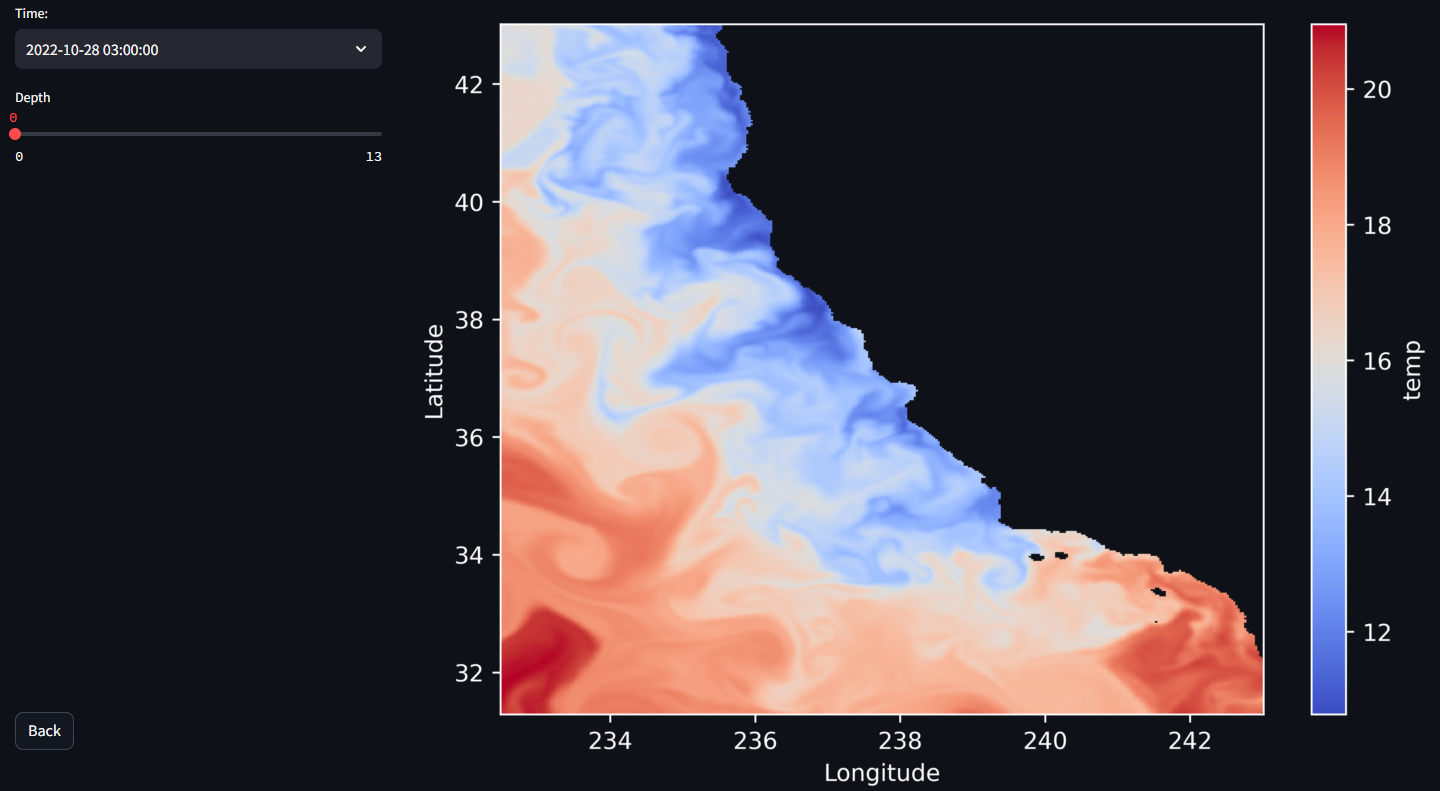
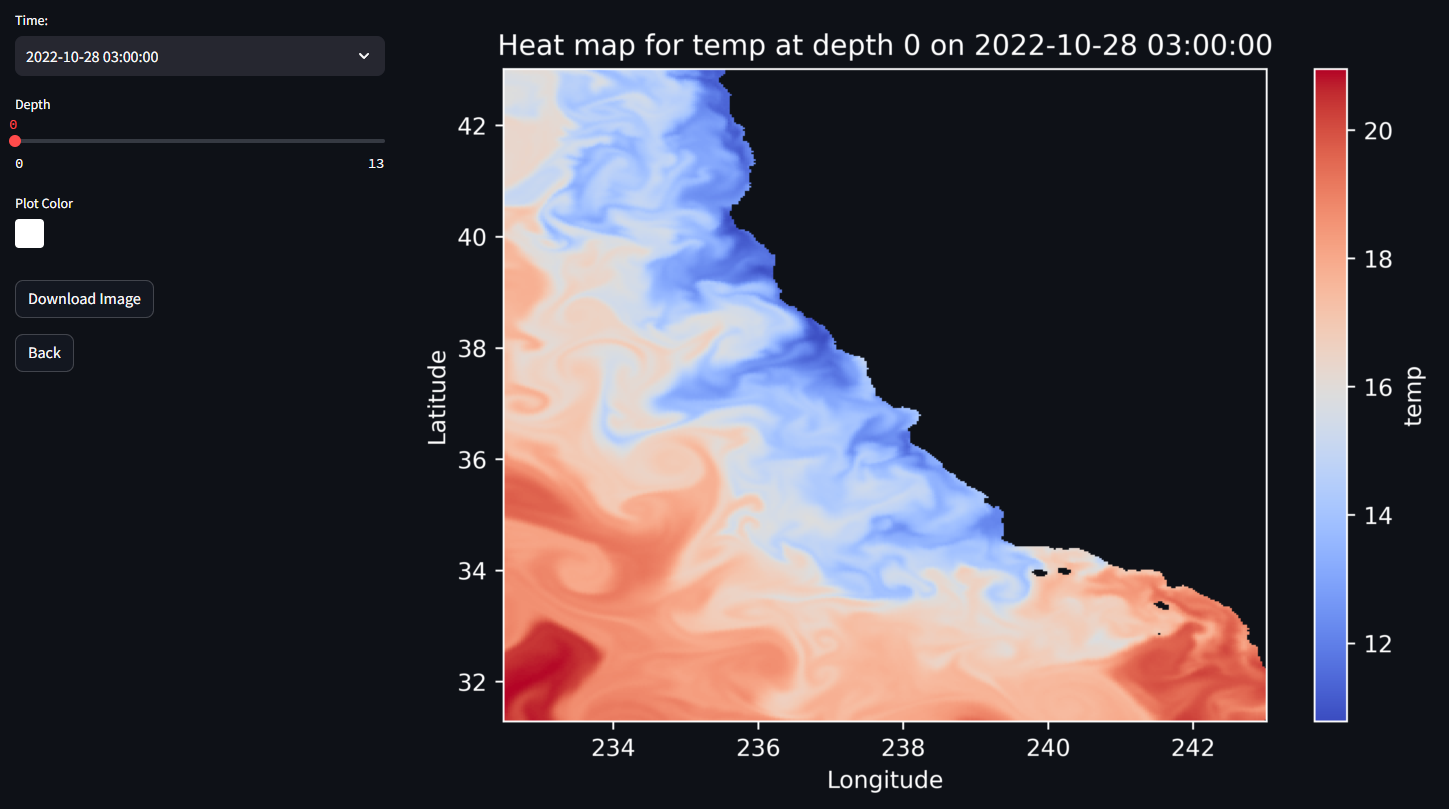
Demo changes
Created config.toml file to set the default to dark mode

Implemented additional features to the dataset visualization page
-can now change the colors of the plot for the heat map and quiver plot
-can download the generated plots
adjusted the back button location

added some text under the navigation section in the home page

fixed the code for generating pdf files from user feedback in both feedback_page.py and dropbox_utils.py

Updated how-to-use images with the new features added in the dataset visualization page

diff --git a/datasetvisualization_page.py b/datasetvisualization_page.py
@@ -232,10 +232,9 @@ def dataset_visualization_page():
                                                                      st.session_state['all_datetime_strings'])
             selected_depth = depth_slider(st.session_state['depth_levels'])
 
-            # I used this markdown to fill up empty space so the back button would be on the bottom
-            st.markdown("<br><br><br><br><br><br><br><br><br><br><br><br><br><br><br><br><br><br><br><br>",
-                        unsafe_allow_html=True)
-            back_button()
+            color = st.color_picker('Plot Color', '#FFFFFF')
+
+            st.write(" ")
 
         # Gets the files and makes sure they exist
         current_files = st.session_state['files_to_process']
@@ -252,15 +251,15 @@ def dataset_visualization_page():
                 # If Heat Map is selected and a variable is chosen, create a heatmap with that variable
                 if st.session_state.selected_visualization == "Heat Map" and 'selected_variable' in st.session_state:
                     with right_column:
-                        heatmap(st.session_state['variables_not_dimensions'], file_bytes, selected_datetime_str,
-                                selected_depth, st.session_state.selected_variable)
+                        heatmap(file_bytes, selected_datetime_str, selected_depth, st.session_state.selected_variable,
+                                color, left_column)
 
                 # If Quiver Plot is selected and a U and V variable is chosen, create a Quiver Plot with them
                 elif st.session_state.selected_visualization == "Quiver Plot" and 'selected_xvelocity' in st.session_state and 'selected_yvelocity' in st.session_state:
                     with right_column:
-                        quiverplot(st.session_state['variables_not_dimensions'], file_bytes, selected_datetime_str,
-                                   selected_depth, st.session_state.selected_xvelocity,
-                                   st.session_state.selected_yvelocity)
+                        quiverplot(file_bytes, selected_datetime_str, selected_depth,
+                                   st.session_state.selected_xvelocity, st.session_state.selected_yvelocity,
+                                   color, left_column)
             else:
                 st.write("No file content available")
 
@@ -500,7 +499,7 @@ def parse_datetime(datetime_str):
 
 
 # Creates a heat map with the variable selected for each latitude, longitude, selected time, and selected depth.
-def heatmap(variables_not_dimensions, file_bytes, datetime_str, depth, variable):
+def heatmap(file_bytes, datetime_str, depth, selected_variable, color, left_column):
     # Load the NetCDF file from bytes
     nc_file = nc.Dataset('in-memory', memory=file_bytes)
 
@@ -514,7 +513,7 @@ def heatmap(variables_not_dimensions, file_bytes, datetime_str, depth, variable)
         selected_time_index = np.where(nc.num2date(time_var[:], units=time_units) == selected_datetime)[0][0]
 
         # Access the data for the selected variable
-        data = nc_file.variables[variable]
+        data = nc_file.variables[selected_variable]
 
         # Assuming the data structure is [time, depth, lat, lon]
         selected_data = data[selected_time_index, depth, :, :]
@@ -528,11 +527,12 @@ def heatmap(variables_not_dimensions, file_bytes, datetime_str, depth, variable)
         c = ax.pcolormesh(lon, lat, selected_data, cmap='coolwarm')
 
         # Adjust color
-        color = "white"
+        #color = "black"
 
         # Set axis labels with specified color
         ax.set_xlabel('Longitude', color=color)
         ax.set_ylabel('Latitude', color=color)
+        ax.set_title(f'Heat map for {selected_variable} at depth {depth} on {datetime_str}', color=color)
 
         # Set tick labels and ticks color
         ax.tick_params(colors=color, which='both')  # 'both' applies changes to both major and minor ticks
@@ -542,8 +542,8 @@ def heatmap(variables_not_dimensions, file_bytes, datetime_str, depth, variable)
             spine.set_color(color)
 
         # Create colorbar with specified label color
-        colorbar = fig.colorbar(c, ax=ax, label=variable)
-        colorbar.set_label(variable, color=color)
+        colorbar = fig.colorbar(c, ax=ax, label=selected_variable)
+        colorbar.set_label(selected_variable, color=color)
 
         # Set colorbar tick color and tick labels to specified color
         colorbar.ax.yaxis.set_tick_params(color=color)  # This sets the tick color
@@ -551,12 +551,19 @@ def heatmap(variables_not_dimensions, file_bytes, datetime_str, depth, variable)
 
         fig.tight_layout(pad=1.0)
 
-        # Enhance the picture quality by increasing the DPI (this may lead to longer load times)
-        dpi = 500  # Adjust DPI to your needs for higher resolution
-
         buf = BytesIO()
-        fig.savefig(buf, format="png", dpi=dpi, transparent=True)
-        st.image(buf, width=1080)
+        fig.savefig(buf, format="png", dpi=500, transparent=True)
+        image = st.image(buf, width=1080)
+
+        with left_column:
+            st.download_button(
+                label='Download Image',
+                data=buf,
+                file_name=f'Heat map for {selected_variable} at depth {depth} on {datetime_str}.png',
+                mime="image/png",
+            )
+
+            back_button()
 
     except Exception as e:
         st.error(f"Error generating heatmap: {e}")
@@ -565,7 +572,7 @@ def heatmap(variables_not_dimensions, file_bytes, datetime_str, depth, variable)
 
 
 # Creates a Quiver Plot with the selected U and V for each latitude, longitude, selected time, and selected depth.
-def quiverplot(variables_not_dimensions, file_bytes, datetime_str, depth, selected_xvelocity, selected_yvelocity):
+def quiverplot(file_bytes, datetime_str, depth, selected_xvelocity, selected_yvelocity, color, left_column):
     # Load the NetCDF file from bytes
     nc_file = nc.Dataset('in-memory', memory=file_bytes)
 
@@ -594,28 +601,41 @@ def quiverplot(variables_not_dimensions, file_bytes, datetime_str, depth, select
         Lon = Lon[skip]
         Lat = Lat[skip]
 
-        # Setting up the plot with a dark background for white elements to stand out
-        plt.style.use('dark_background')
         fig, ax = plt.subplots(figsize=(10, 7.5))
-        q = ax.quiver(Lon, Lat, u_data, v_data, color='white')  # Set arrow color to white
+        q = ax.quiver(Lon, Lat, u_data, v_data, color=color) # Change arrow color
 
-        # Include a key to indicate scale, with text in white
-        ax.quiverkey(q, X=0.9, Y=1.05, U=10, label='10 units', labelpos='E', color='white')
+        # Include a key to indicate scale, with text in color
+        key = ax.quiverkey(q, X=0.9, Y=0.978, U=1, label='1 unit', labelpos='E', color=color)
+        key.text.set_color(color)
 
-        # Set axis labels and title with white text
-        ax.set_xlabel('Longitude', color='white')
-        ax.set_ylabel('Latitude', color='white')
-        #ax.set_title(f'Quiver plot for {selected_xvelocity} and {selected_yvelocity} at depth {depth} on {datetime_str}', color='white')
+        # Set axis labels and title with specified color
+        ax.set_xlabel('Longitude', color=color)
+        ax.set_ylabel('Latitude', color=color)
+        ax.set_title(f'Quiver plot for {selected_xvelocity} and {selected_yvelocity} at depth {depth} on {datetime_str}', color=color)
 
-        # Changing tick parameters to white
-        ax.tick_params(axis='both', colors='white')
+        # Changing tick parameters and spine colors to specified color
+        ax.tick_params(axis='both', colors=color)
+        for spine in ax.spines.values():
+            spine.set_color(color)
 
         fig.tight_layout()
 
         buf = BytesIO()
-        fig.savefig(buf, format="png", dpi=300, transparent=True)
-        #st.image(buf, use_column_width=True)
+        fig.savefig(buf, format="png", dpi=500, transparent=True)
+        buf.seek(0)
         st.image(buf, width=1080)
+
+        with left_column:
+            st.download_button(
+                label='Download Image',
+                data=buf,
+                file_name=f'Quiver plot for {selected_xvelocity} and {selected_yvelocity} '
+                          f'at depth {depth} on {datetime_str}.png',
+                mime="image/png",
+            )
+
+            back_button()
+
     except Exception as e:
         st.error(f"Error generating quiver plot: {e}")
     finally:

diff --git a/feedback_page.py b/feedback_page.py
@@ -3,28 +3,25 @@ from reportlab.lib.pagesizes import letter
 from reportlab.pdfgen import canvas
 import base64
 from dropbox_utils import DropboxLogger
+from io import BytesIO
 
 
 def generate_pdf(data):
-    pdf_filename = "feedback_report.pdf"
-    pdf_canvas = canvas.Canvas(pdf_filename, pagesize=letter)
+    pdf_buffer = BytesIO()
+    pdf_canvas = canvas.Canvas(pdf_buffer, pagesize=letter)
 
     pdf_canvas.setFont("Helvetica", 12)
     pdf_canvas.drawString(100, 750, "Feedback Report")
 
-    # Add feedback data to the PDF
     y_position = 730
     for key, value in data.items():
         pdf_canvas.drawString(100, y_position, f"{key}: {value}")
         y_position -= 15
 
     pdf_canvas.save()
+    pdf_buffer.seek(0)  # Move to the beginning of the BytesIO buffer
 
-    # Read the content of the PDF file
-    with open(pdf_filename, "rb") as f:
-        pdf_content = f.read()
-
-    return pdf_filename, pdf_content
+    return "feedback_report.pdf", pdf_buffer.getvalue()
 
 
 def feedback_page():
@@ -88,42 +85,21 @@ def feedback_page():
                     "only for improving this website.")
 
     if st.button("SEND"):
-        # Generate PDF
         feedback_data = {
-            "Was Easy to Navigate": was_easy_navigate,
-            "Was Homepage Informative": was_homepage_informative,
-            "Was Data Management Page Intuitive": was_data_manage_intuitive,
-            "Was About Page Informative": was_about_page_informative,
-            "Has User Used NetCDF4 Files Before": have_used_net_files,
-            "Is User's Own Files": upload_own_files,
-            "Is Visualization Useful": useful_visual,
-            "Useful Features in Visualization": useful_features,
-            "Confusing Parts for Visualization": what_confusing,
-            "Suggestions for Visuals": suggestions_visual,
-            "Feedback Performance": performance_question,
-            "Field of Study": field_of_study,
-            "Additional Comments": additional_comments
+            # your data dictionary
         }
         pdf_filename, pdf_content = generate_pdf(feedback_data)
 
         dropbox_logger = DropboxLogger(st.secrets["DB_TOKEN"])
-        dropbox_logger.upload_file(pdf_content, pdf_filename, st)
+        dropbox_logger.upload_file(pdf_content, st)  # Adjust method to handle bytes
 
         # Display PDF
-        with open(pdf_filename, "rb") as f:
-            pdf_contents = f.read()
-
-        # Convert PDF to base64 encoding
-        pdf_base64 = base64.b64encode(pdf_contents).decode("utf-8")
-
-        # Display download link
+        pdf_base64 = base64.b64encode(pdf_content).decode("utf-8")
         st.markdown(f"### Generated PDF:")
         st.markdown(
             f'<a href="data:application/pdf;base64,{pdf_base64}" download="{pdf_filename}">Download PDF</a>',
             unsafe_allow_html=True,
         )
-        st.markdown("---")
-        st.write(pdf_filename)
         st.success("Thank you for your feedback! 🚀")
 
     if __name__ == "__main__":

diff --git a/dropbox_utils.py b/dropbox_utils.py
@@ -1,48 +1,40 @@
 import dropbox
 from datetime import datetime
-import datetime
+from io import BytesIO
 
 
 class DropboxLogger:
     def __init__(self, access_token):
         self.dbx = dropbox.Dropbox(access_token)
 
-    def upload_file(self, file_data, file_name, st):
+    def upload_file(self, file_data, st):
         try:
-            current_time = datetime.datetime.now().strftime("%Y-%m-%d_%H-%M-%S")
-            # Construct the new filename with the user's email
+            current_time = datetime.now().strftime("%Y-%m-%d_%H-%M-%S")
             new_file_name = f"feedback_report_{current_time}.pdf"
-
-            # Upload the file to Dropbox
             upload_path = f'/Apps/Feedbackfiles/{new_file_name}'
             self.dbx.files_upload(file_data, upload_path, mode=dropbox.files.WriteMode.overwrite)
-
             st.success(f"Feedback PDF '{new_file_name}' uploaded successfully to Dropbox.")
         except dropbox.exceptions.ApiError as e:
-            st.error(f"Error uploading '{file_name}' to Dropbox: {e}")
+            st.error(f"Error uploading PDF to Dropbox: {e}")
 
     def upload_error_log(self, error_log):
-        # Format the current time
         current_time = datetime.now().strftime("%Y-%m-%d %H:%M:%S")
-
-        # Download the existing error log file from Dropbox
         try:
             _, existing_file = self.dbx.files_download('/Apps/Feedbackfiles/error_log.txt')
             existing_error_log = existing_file.content.decode('utf-8')
         except dropbox.exceptions.ApiError:
             existing_error_log = ""
 
-        # Append the new error log with timestamp to the existing content
-        updated_error_log = existing_error_log + f"\n{current_time} - {error_log}"
+        updated_error_log = f"{existing_error_log}\n{current_time} - {error_log}"
+        error_log_buffer = BytesIO(updated_error_log.encode('utf-8'))
 
-        # Upload the updated error log back to Dropbox
-        with open('updated_error_log.txt', 'w') as f:
-            f.write(updated_error_log)
+        try:
+            self.dbx.files_upload(error_log_buffer.getvalue(), '/Apps/Feedbackfiles/error_log.txt',
+                                  mode=dropbox.files.WriteMode.overwrite)
+            print("Error log updated and uploaded successfully to Dropbox.")
+        except dropbox.exceptions.ApiError as e:
+            print(f"Error updating error log on Dropbox: {e}")
 
-        with open('updated_error_log.txt', 'rb') as f:
-            try:
-                self.dbx.files_upload(f.read(), '/Apps/Feedbackfiles/error_log.txt',
-                                      mode=dropbox.files.WriteMode.overwrite)
-                print("Error log updated and uploaded successfully to Dropbox.")
-            except dropbox.exceptions.ApiError as e:
-                print(f"Error updating error log on Dropbox: {e}")
+# Usage in Streamlit, outside of the DropboxLogger
+# logger = DropboxLogger('your-access-token')
+# logger.upload_file(file_data, st)

diff --git a/home_page.py b/home_page.py
@@ -3,14 +3,6 @@ from PIL import Image
 
 
 def home_page():
-    # Sidebar
-    st.sidebar.markdown("Dataset-Related Links")
-    st.sidebar.link_button("GitHub Page", "https://github.com/Isaiahensley/Aquatic-RIG")
-
-    st.sidebar.markdown("Software-Related Links")
-    st.sidebar.link_button("Matplotlib", "https://matplotlib.org/")
-    st.sidebar.link_button("Streamlit", "https://streamlit.io/")
-    st.sidebar.link_button("NumPy", "https://numpy.org/")
 
     # Main Content
     left_col, right_col = st.columns(2)
@@ -28,7 +20,9 @@ def home_page():
     with st.container():
         col1, col2, col3 = st.columns([2, 1, 2])
         with col1:
+            # ----------- Summary -----------
             st.header('**:blue[Summary]**')
+
             st.write('Aquatic data researchers need a powerful and easy to use data visualization tool to sort through'
                      ' complex data. What makes our website tool different from others is the way it handles'
                      ' multi-dimensional data. Unlike existing software, our website lets users visualize several types'
@@ -38,10 +32,23 @@ def home_page():
                      ' Our website focuses on visualizing aquatic data stored in NetCDF4 files. These files are '
                      'powerful for aquatic research as they allow data to be stored at specific'
                      ' multi-dimensional locations.')
+
             st.markdown("---")
 
+            # ----------- Navigation -----------
             st.header("**:blue[Navigation]**")
-            # Add navigation content here
+
+            st.markdown("#### Dataset Visualization")
+            st.write('Upload and visualize aquatic datasets')
+            st.write(" ")
+
+            st.markdown("#### About")
+            st.write('How to use, NetCDF, Use Cases')
+            st.write(" ")
+
+            st.markdown("#### Feedback")
+            st.write('Give us feedback to further improve our website!')
+            st.write(" ")
 
         # GIFs in the third column
         with col3:
